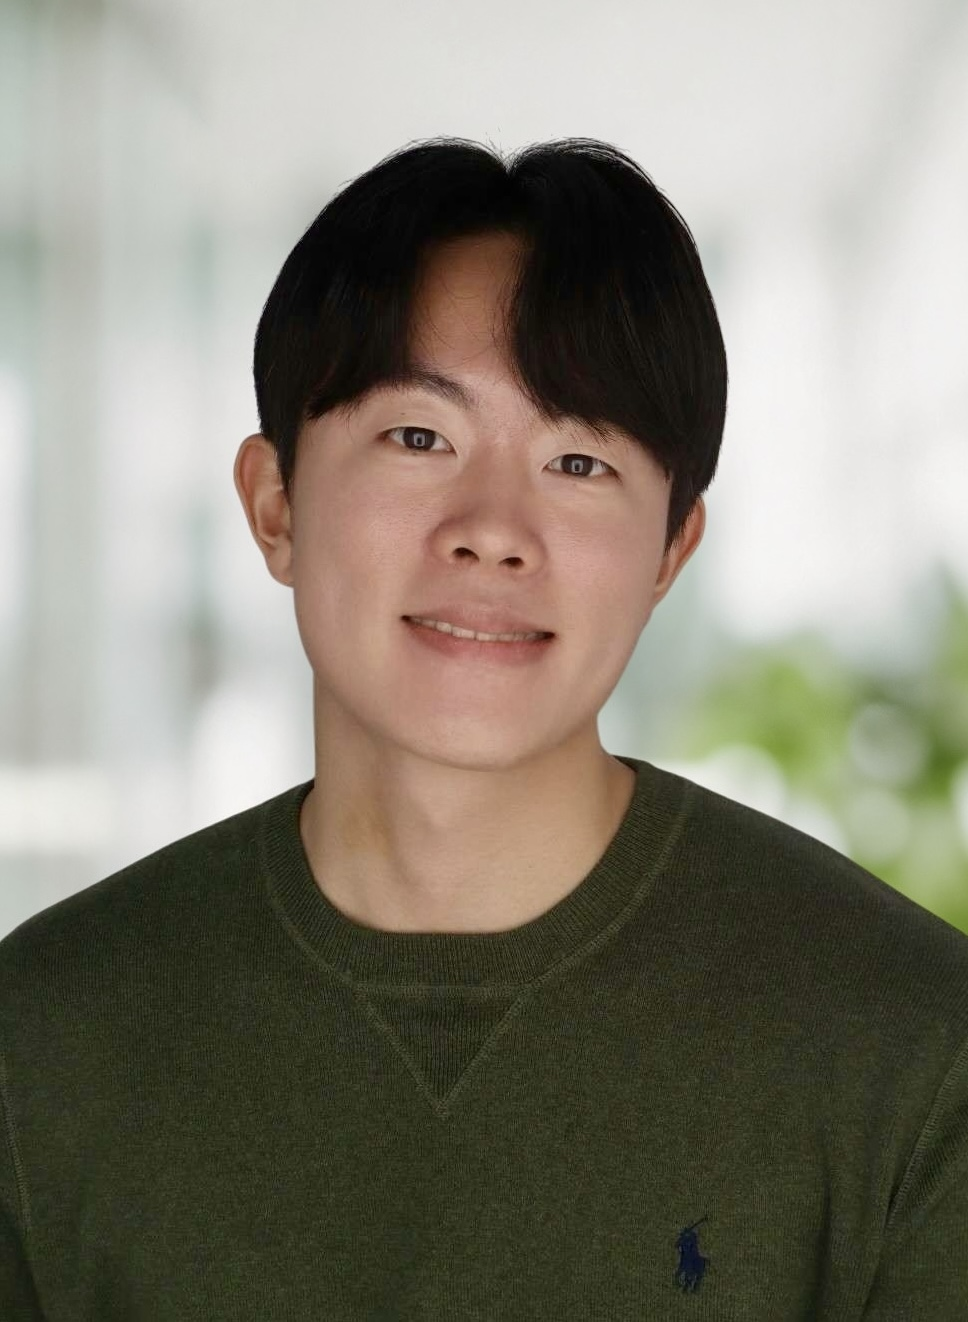
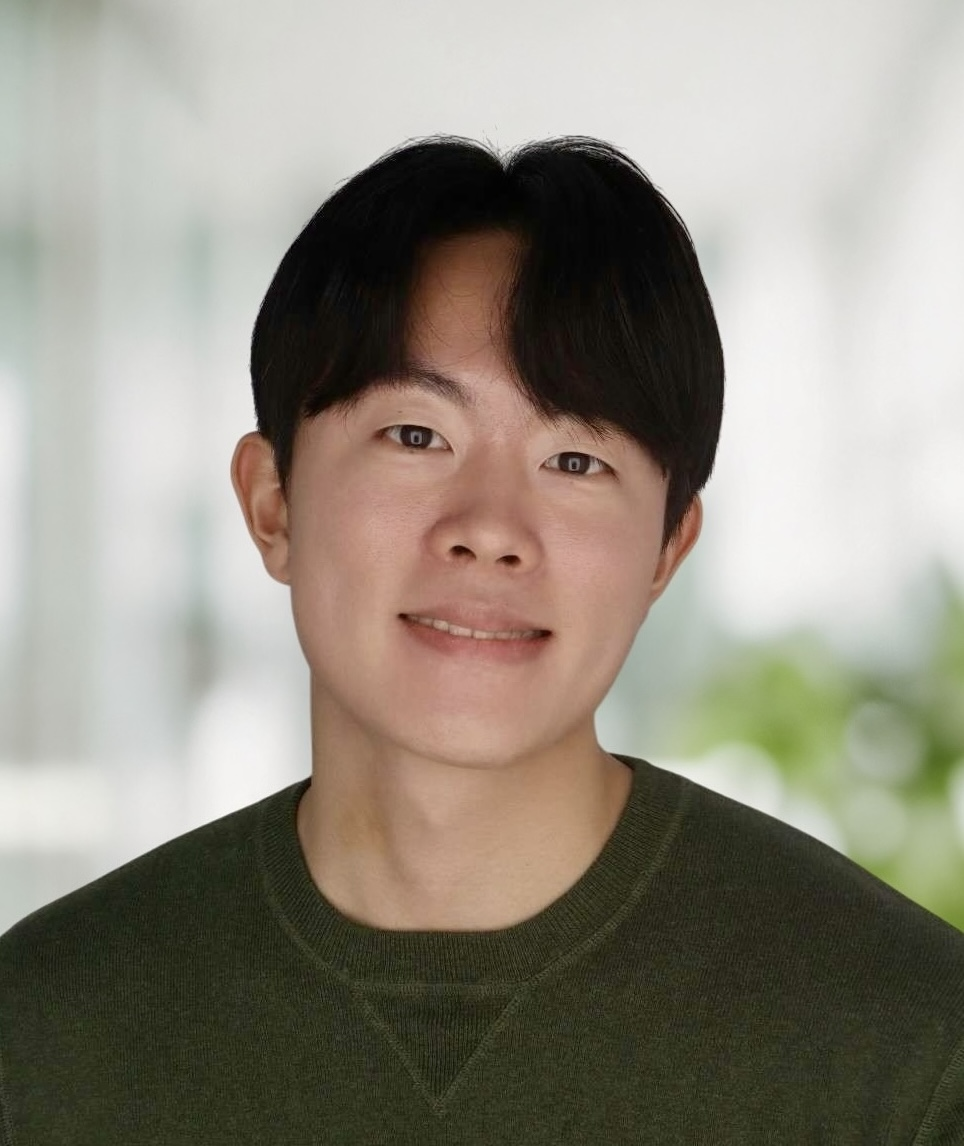
update

diff --git a/_sass/_base.scss b/_sass/_base.scss
@@ -442,13 +442,13 @@ ul.task-list input[type="checkbox"] {
 
     /* Enlarge only the CV icon under profile socials */
     a[title="CV (PDF)"] {
-      svg, img {
-        width: 2.25rem;
-        height: 2.25rem;
+      svg {
+        width: 1.6rem;
+        height: 2.0rem;
       }
       svg image {
-        width: 100%;
-        height: 100%;
+        width: 1.6rem;
+        height: 2.0rem;
       }
     }
   }
